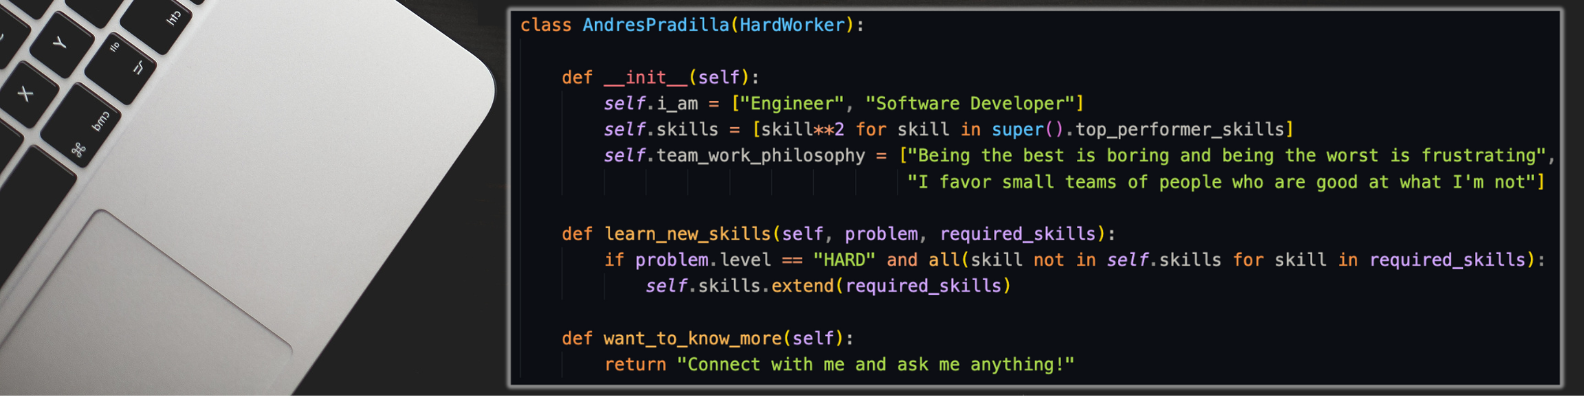
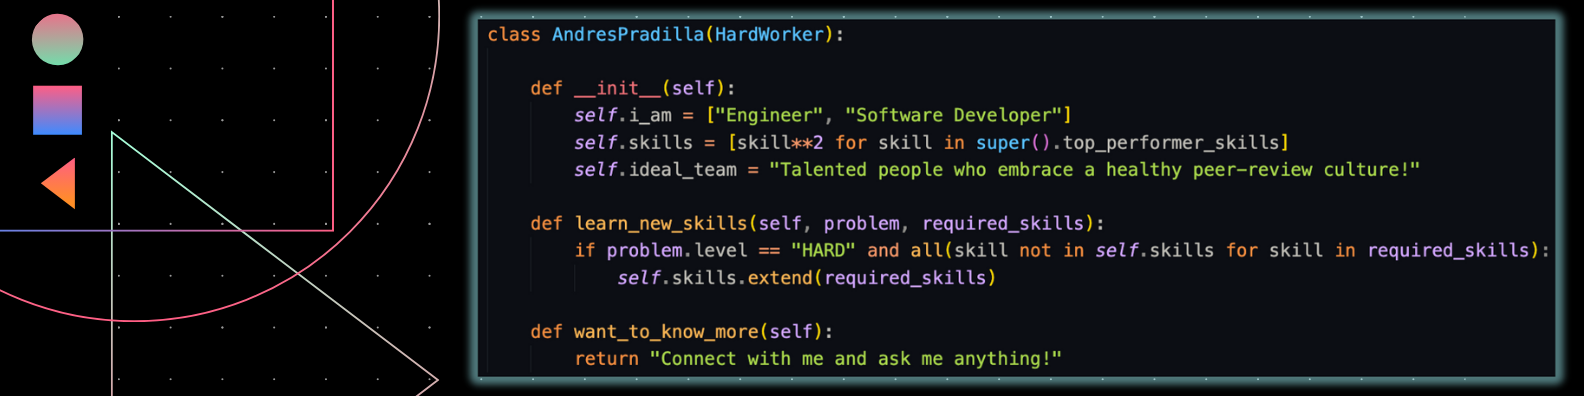
Redesign profile

diff --git a/README.md b/README.md
@@ -1,101 +1,23 @@
 ![cover](./cover.png)
 
-### Here's where I’d describe myself using words like passion and innovation… but I’m an engineer 🤦♂
+> [!NOTE]  
+> 🤦♂ I was tempted to describe myself using terms like passionate, attention to detail and team player… instead, here are some:
 
-<details open>
-<summary><b> For Engineers 👨💻</b></summary>
+### Facts you didn’t ask for about myself
 
-```mermaid
-graph TD
-
-    A{{SELF}} -->|💡| B[/Facts you didn’t ask for about myself\]
-
-    B -->|👨🔬| D(
-        I can code in
-        Python, JavaScript
-        and C++, but my
-        favorite algorithms
-        are written in
-        algebra, calculus
-        and geometry
-    )
-    B -->|🤝| E(
-        Being the best
-        is boring and
-        being the worst
-        is frustrating.
-        I favor small
-        teams of people
-        who are good at
-        what I’m not
-    )
-    B -->|🌱| F(
-        I have a track
-        record of falling
-        asleep in lectures,
-        but give me a
-        challenging problem
-        and I'll learn the
-        tools to solve it
-    )
-    B -->|🛩| G(
-        I’m also a pilot…
-        just felt the need
-        to let you know
-    )
-
-    A -->|😵💫| C[/Things I learned the hard way\]
-    E ~~~ C
-
-    C -->|🤯| H(
-        The hardest part
-        about writing code
-        is knowing when and
-        how it's going to fail
-    )
-    C -->|🥱| I(
-        If the code I am
-        writing doesn’t have a
-        practical use, I lose
-        interest rather fast
-    )
-    C -->|🤷♂| J(
-        A software project
-        is never complete,
-        it's just ''good
-        enough for now''
-    )
-
-    H ~~~ K[
-        PS: Have an ML project idea to solve a real problem using Pytorch? I want to hear about it
-    ]
-    K ~~~ L[[
-        PPS: A dude named Devin is WANTED for lying on its resume
-    ]]
-```
-
-</details>
-
-<details>
-  <summary><b>Same Thing But For Suits 🤵♂</b></summary>
-  
-- Facts you didn’t ask for about myself 💡:
-    - 👨🔬 I can code in Python, JavaScript and C++, but my favorite algorithms are written in algebra, calculus and geometry.
-    - 🤝 Being the best is boring and being the worst is frustrating. I favor small teams of people who are good at what I’m not.
-    - 🌱 I have a track record of falling asleep in lectures, but give me a challenging problem and I'll learn the tools to solve it.
-    - 🛩 I’m also a pilot… just felt the need to let you know.
-
-- Things I learned the hard way 😵💫:
+- 🤓 I can code in Python, JavaScript and C++, but my favorite algorithms are written in algebra, calculus and geometry.
+- 🌱 I have a track record of falling asleep in lectures, but I can master complicated tools when faced with challenging problems.
+- 🧪 I have a love/hate relationship with writing tests… But in the end, it’s always worth it.
+- 😵💫 Things I learned the hard way:
 
   - 🤯 The hardest part about writing code is knowing when and how it's going to fail.
-  - 🥱 If the code I am writing doesn’t have a practical use, I lose interest rather fast.
+  - 💩 Using `any` in TypeScript is not a clever hack, it's laziness!
   - 🤷♂ A software project is never complete, it's just "good enough for now".
 
-- PS: Have an ML project idea to solve a real problem using Pytorch? I want to hear about it.
+- 🛩 I’m also a pilot… just felt the need to let you know.
 
-- PPS: A dude named Devin is WANTED for lying on its resume.
-
-</details>
+> [!WARNING]  
+> A bloke named Devin is replacing us all!!!
 
 ---
 
@@ -128,5 +50,3 @@ graph TD
 <img src="https://www.vectorlogo.zone/logos/jestjsio/jestjsio-icon.svg" alt="jest" width="40" height="40"/>
 <img src="https://cdn.jsdelivr.net/gh/devicons/devicon@latest/icons/pytest/pytest-original.svg" alt="pytest" width="50" height="50"/>
 </p>
-
-
